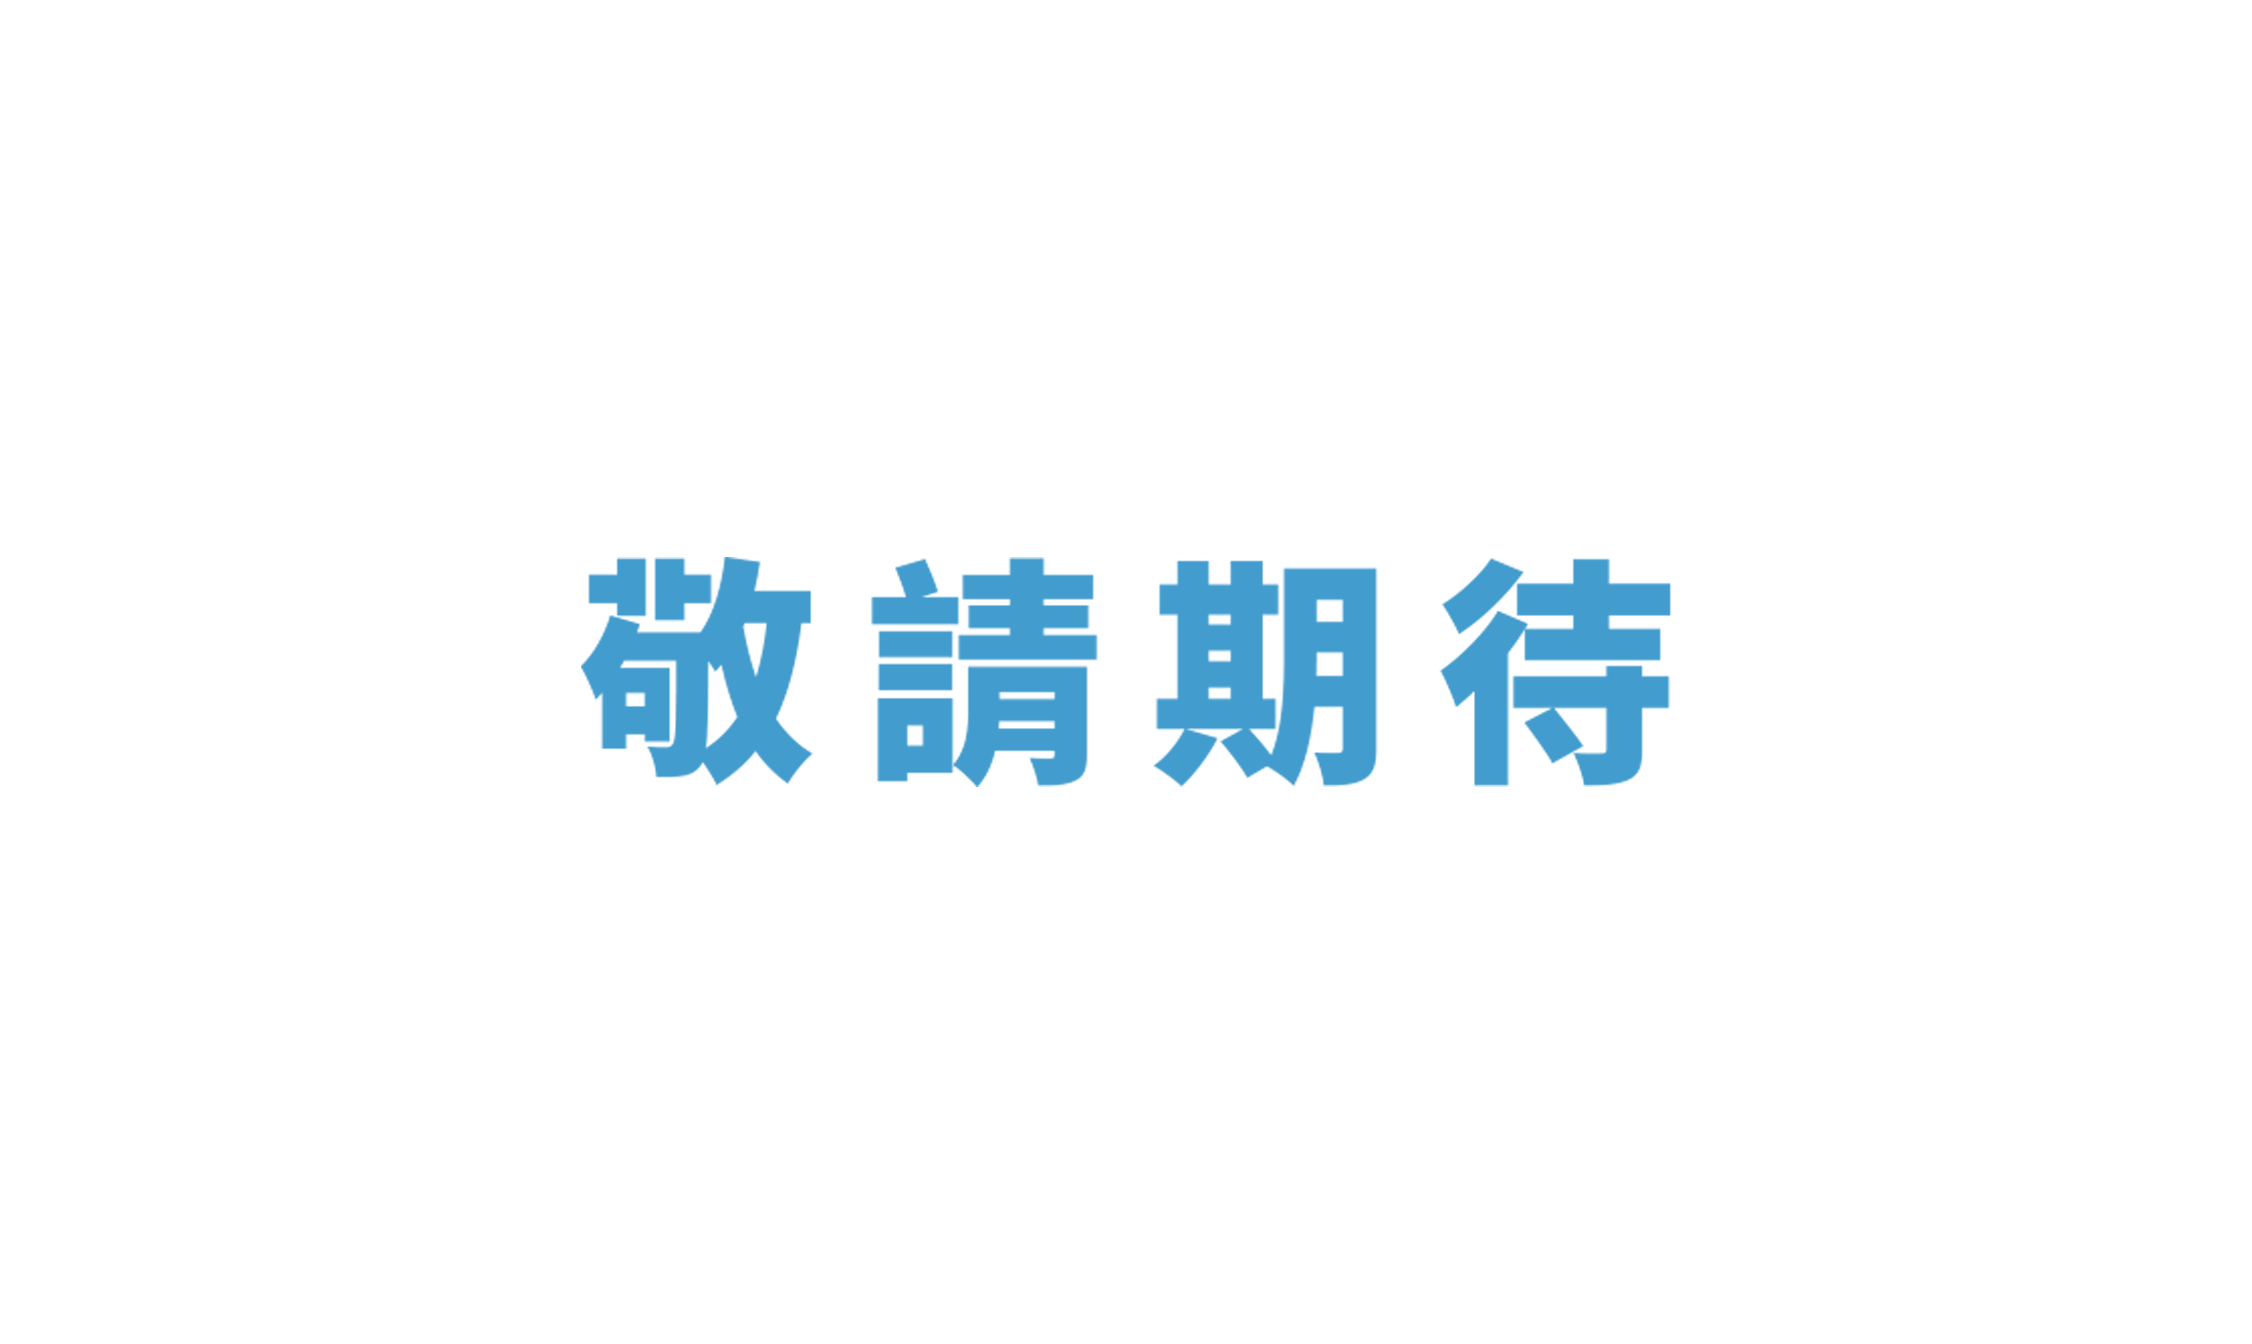
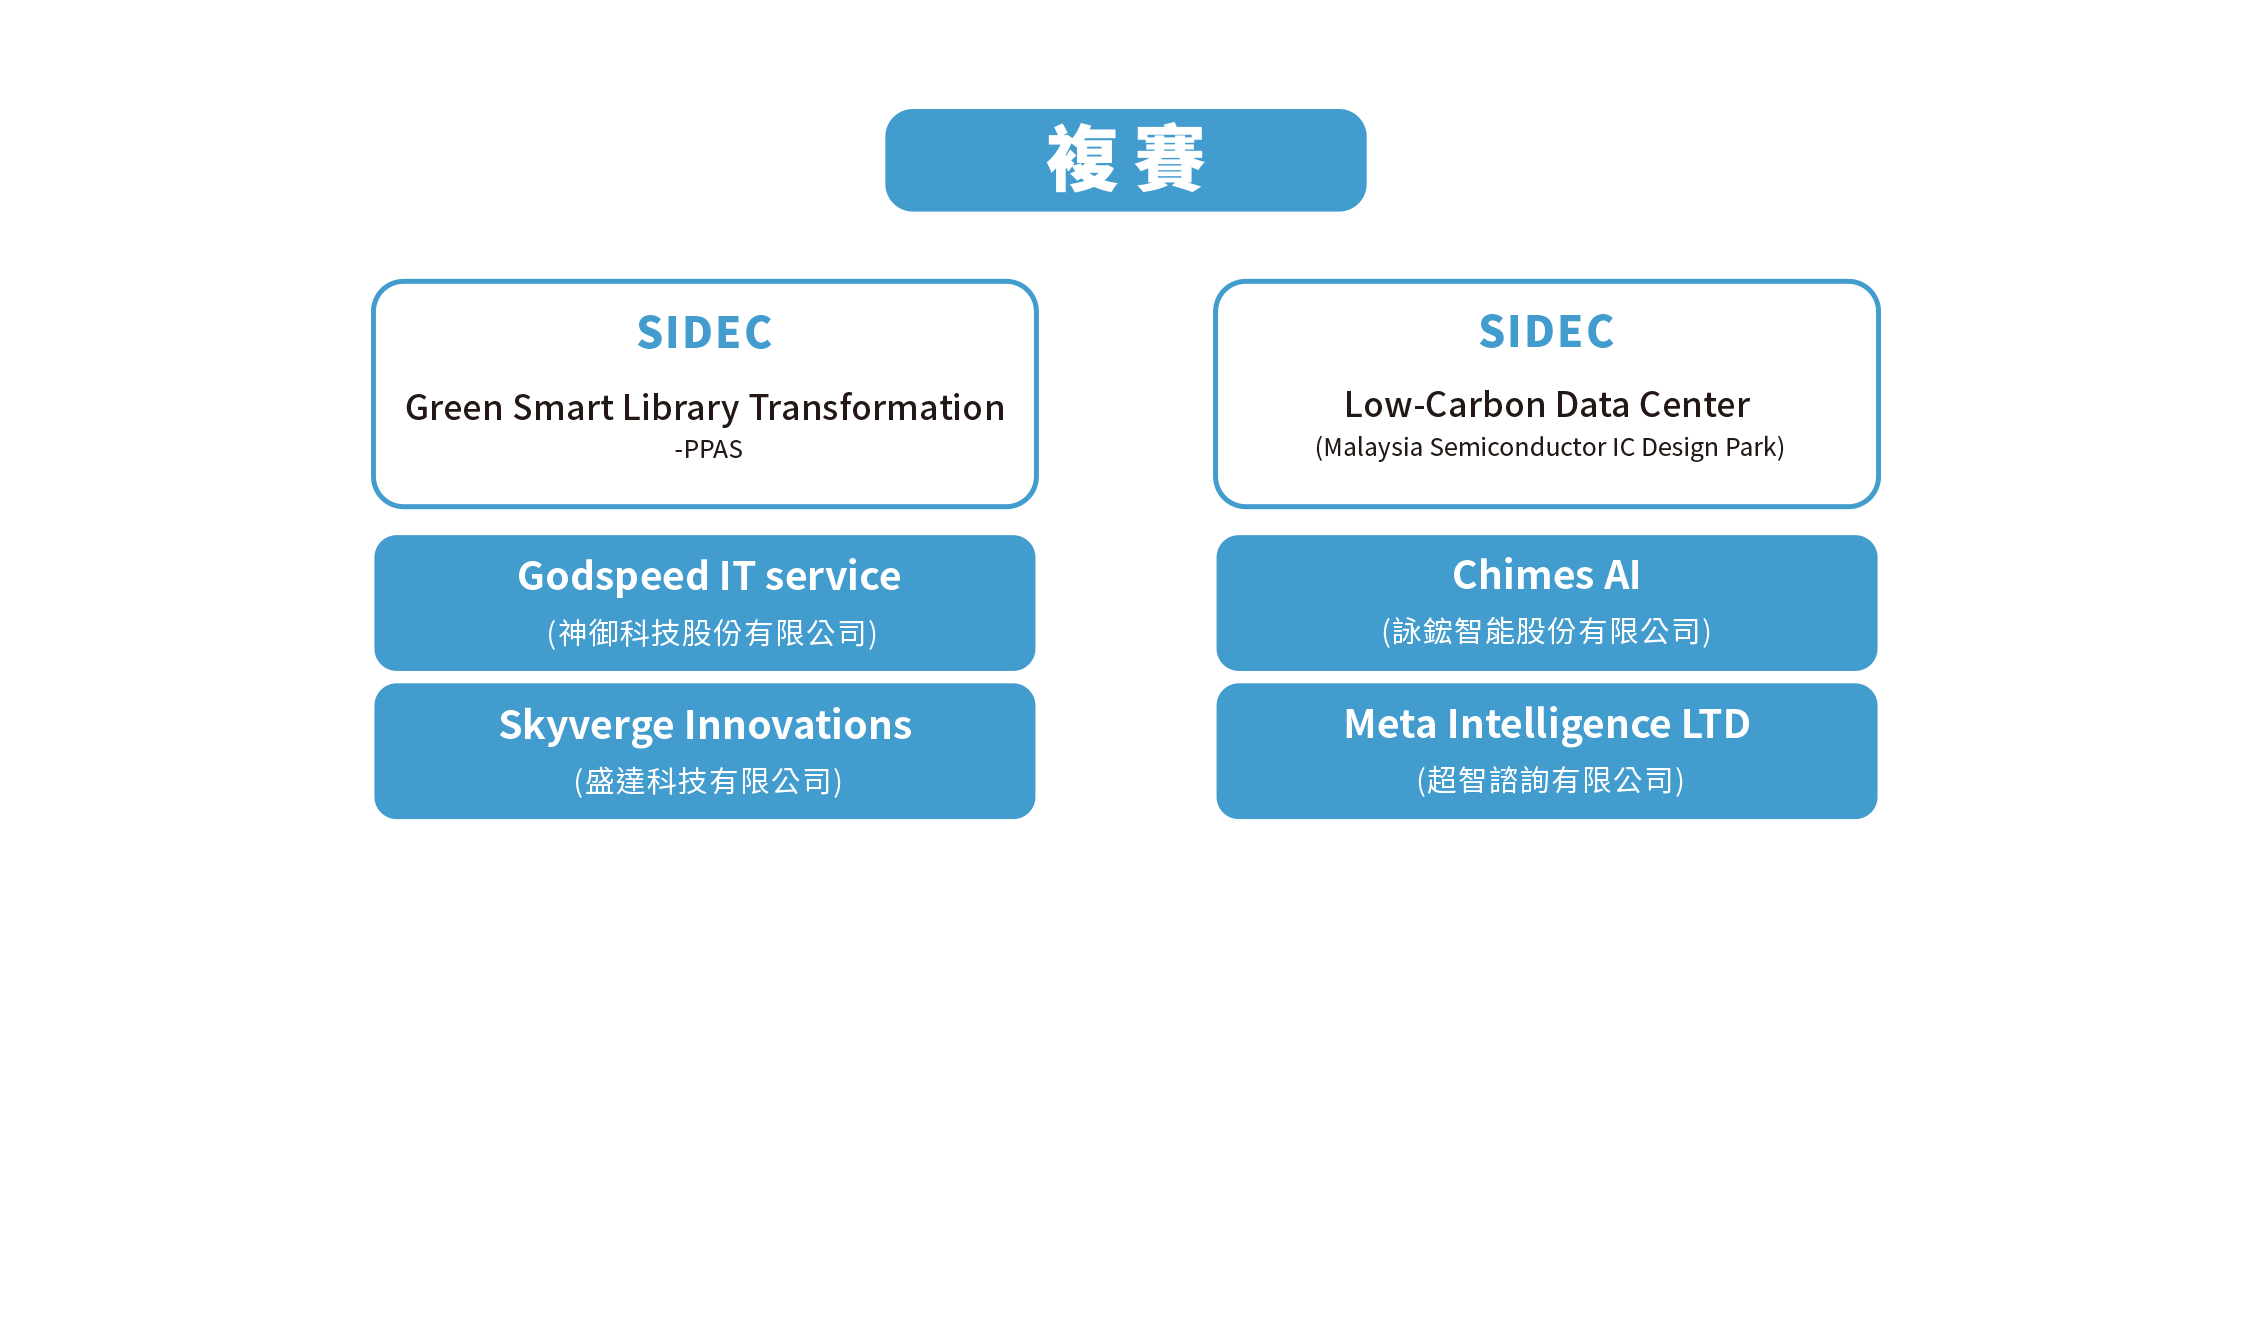
20250721

diff --git a/src/views/city/Passed.vue b/src/views/city/Passed.vue
@@ -119,25 +119,28 @@ export default {
     // 根據 activeTab 回傳不同的圖片陣列
     images() {
       let arr = [];
+      // 根據語言設定決定檔名後綴
+      const suffix = this.$i18n.locale === 'zh' ? '' : '_en';
+      
       if (this.activeTab === '初賽') {
         // 初賽： chu001 ~ chu005
         for (let i = 1; i <= 1; i++) {
           let num = i.toString().padStart(3, '0');
-          let url = new URL(`../../assets/img/city/passed/chu${num}.png`, import.meta.url).href;
+          let url = new URL(`../../assets/img/city/passed/chu${num}${suffix}.png`, import.meta.url).href;
           arr.push(url);
         }
       } else if (this.activeTab === '複賽') {
         // 複賽： fu001 ~ fu003
         for (let i = 1; i <= 1; i++) {
           let num = i.toString().padStart(3, '0');
-          let url = new URL(`../../assets/img/city/passed/fu${num}.png`, import.meta.url).href;
+          let url = new URL(`../../assets/img/city/passed/fu${num}${suffix}.png`, import.meta.url).href;
           arr.push(url);
         }
       } else if (this.activeTab === '決賽') {
         // 決賽： jue001 ~ jue002
         for (let i = 1; i <= 1; i++) {
           let num = i.toString().padStart(3, '0');
-          let url = new URL(`../../assets/img/city/passed/jue${num}.png`, import.meta.url).href;
+          let url = new URL(`../../assets/img/city/passed/jue${num}${suffix}.png`, import.meta.url).href;
           arr.push(url);
         }
       }

diff --git a/src/views/GroupPage.vue b/src/views/GroupPage.vue
@@ -134,7 +134,7 @@
 
     <!-- 右下角懸浮按鈕區 -->
     <div class="floating-buttons">
-      <button class="reg-btn" v-html="regBtnText" data-bs-toggle="modal" data-bs-target="#signModal"></button>
+      <!-- <button class="reg-btn" v-html="regBtnText" data-bs-toggle="modal" data-bs-target="#signModal"></button> -->
       <button class="lang-btn" @click="toggleLanguage">
         {{ languageBtnText }}
       </button>

diff --git a/src/views/HomePage.vue b/src/views/HomePage.vue
@@ -98,7 +98,7 @@
 
     <!-- 右下角懸浮按鈕區 -->
     <div class="floating-buttons">
-      <button class="reg-btn" v-html="regBtnText" data-bs-toggle="modal" data-bs-target="#signModal"></button>
+      <!-- <button class="reg-btn" v-html="regBtnText" data-bs-toggle="modal" data-bs-target="#signModal"></button> -->
       <button class="lang-btn" @click="toggleLanguage">{{ languageBtnText }}</button>
     </div>
 
